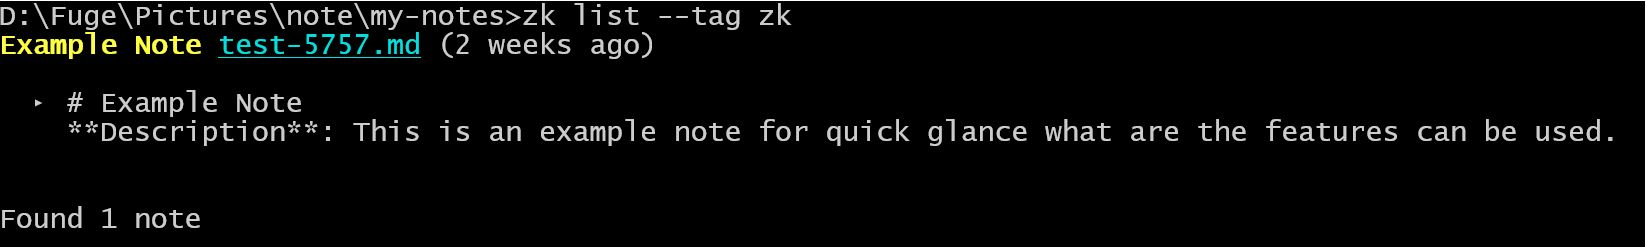
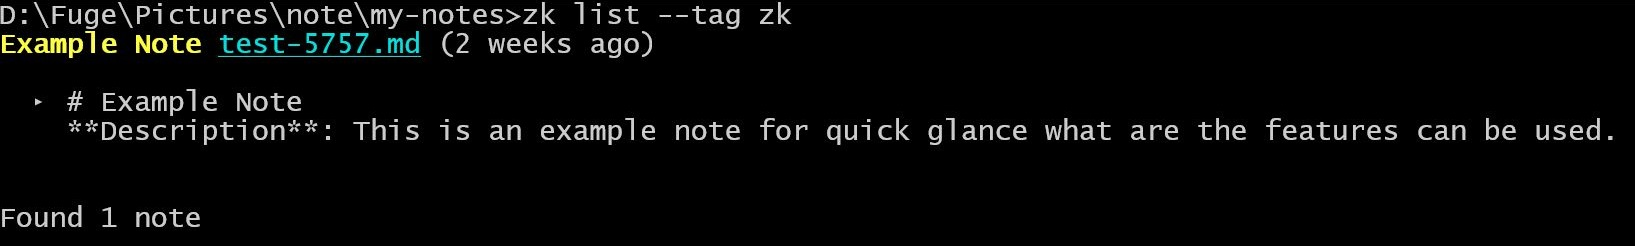
Better format in README

Changed region(s): [[0.0, 0.0, 1.0, 1.0], [0.0312, 0.3699, 0.1872, 0.4553], [0.0, 0.8537, 0.1248, 0.939]]

diff --git a/README.md b/README.md
@@ -1,11 +1,13 @@
 # fuge dotfiles
 1. nvim (text editor)
-    + Intent to use with neovide on Windows
+    + Intent to use with [neovide](https://neovide.dev/) on Windows
         + Keybind for zoom and fullscreen
     + `markdown_inline.json` could be a symlink to `markdown.json` in snippets folder
 
     ![Screenshot of neovide setup](images/neovide.jpg)
+
     *[Minimal theme](https://github.com/andreypopp/vim-colors-plain) with Lucida Console font*
+
 
 2. zk (knowledge management)
     + A [default](https://github.com/Fuge8766/dotfiles/blob/main/zk/templates/default.md) note and a [journal](https://github.com/Fuge8766/dotfiles/blob/main/zk/templates/journal.md) note type
@@ -13,10 +15,15 @@
     + Custom syntax (yellow highlight, blue and red text), codes with [syntax highlight](https://xyproto.github.io/splash/docs/autumn.html), direct qr code generation and external lua support for greater control
 
     ![Screenshot of the note layout](images/note.jpg)
-    Note layout
+
+    *Note layout*
+
 
     ![Screenshot of searching note with zk](images/zklist.jpg)
-    When listing the notes with zk, the title and description show in lines
+
+    *When listing the notes with zk, the title and description show in lines*
+
 
     ![Screenshot of pdf from note generated by glu](images/notetopdf.jpg)
-    Pdf file from note
+
+    *Generate pdf from note*
